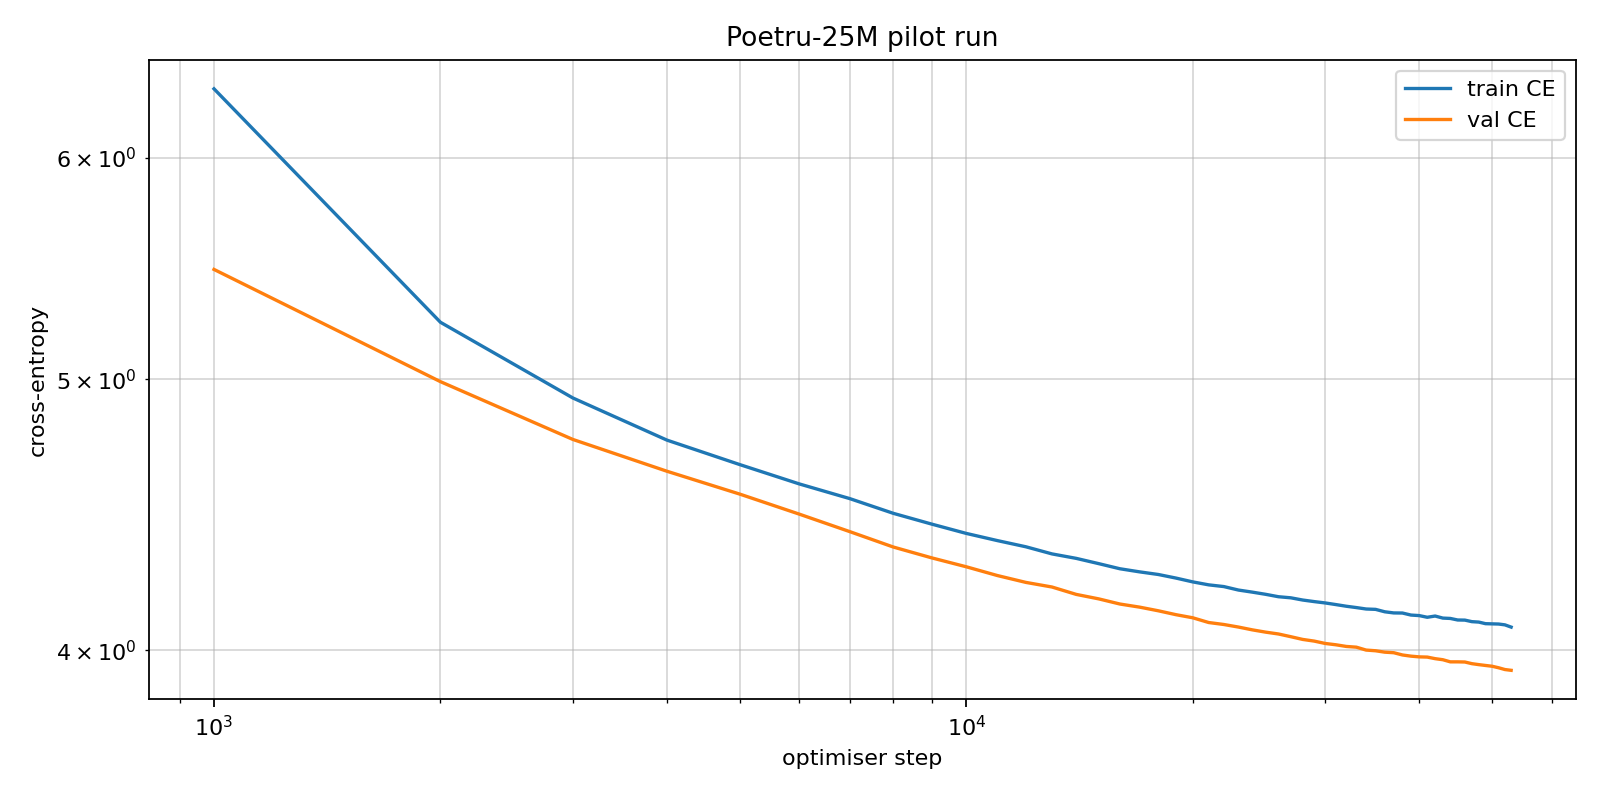
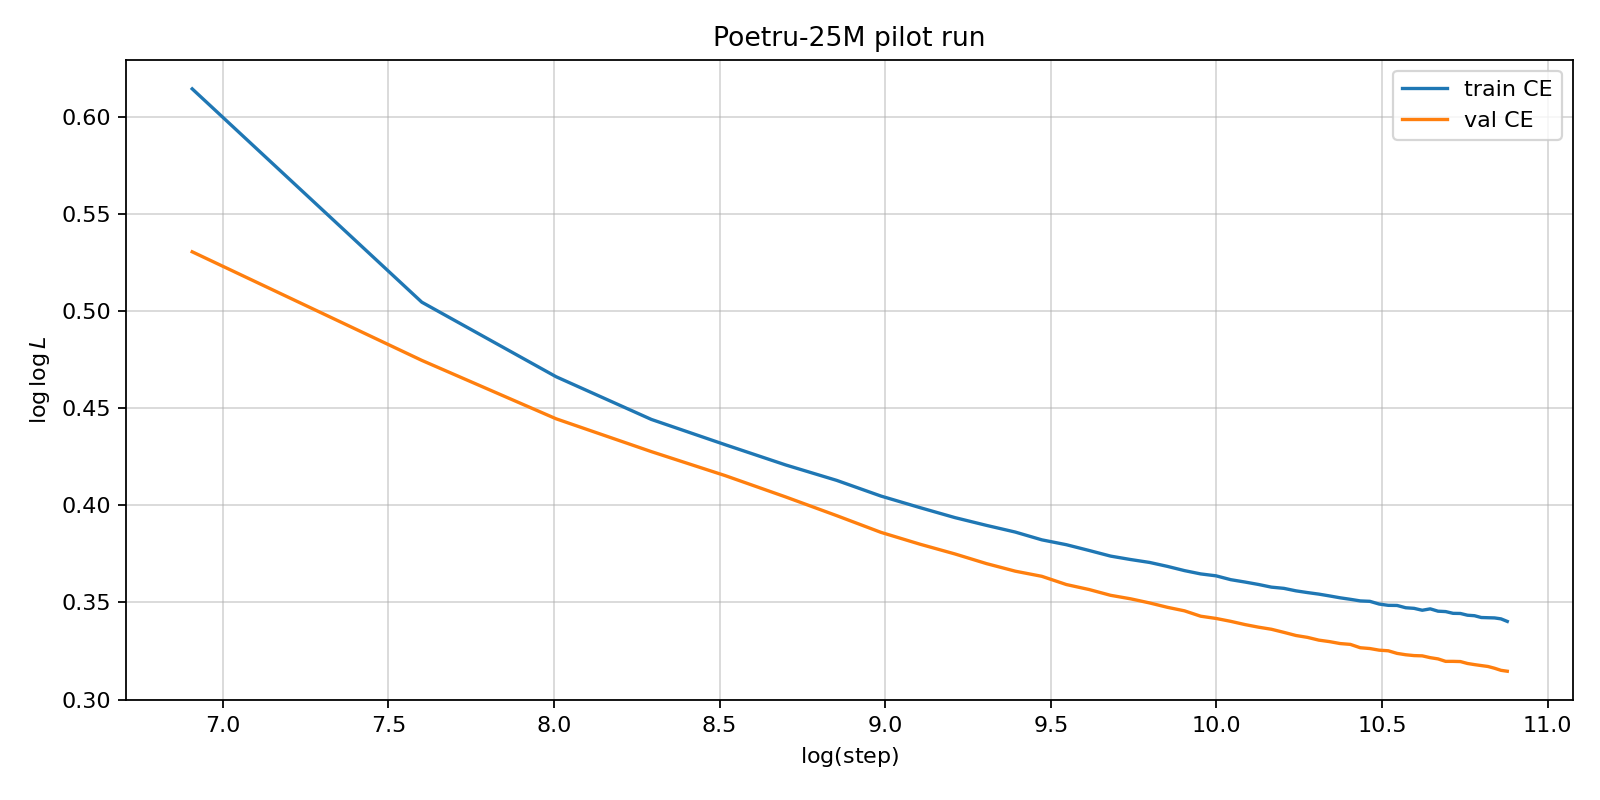
Plot log(step) vs log(log(loss)) for Chinchilla-style scaling view.

diff --git a/scripts/plot_poetru_25m_experiment.py b/scripts/plot_poetru_25m_experiment.py
@@ -29,13 +29,17 @@ def plot_experiment(csv_path: Path, out_dir: Path) -> None:
     fig.savefig(out_dir / "poetru_25m_loss_linear.png", dpi=160)
     plt.close(fig)
 
+    log_step = np.log(step)
+    loglog_train = np.log(np.log(train))
+    loglog_val = np.log(np.log(val))
+
     fig, ax = plt.subplots(figsize=(10, 5))
-    ax.loglog(step, train, label="train CE")
-    ax.loglog(step, val, label="val CE")
-    ax.set_xlabel("optimiser step")
-    ax.set_ylabel("cross-entropy")
+    ax.plot(log_step, loglog_train, label="train CE")
+    ax.plot(log_step, loglog_val, label="val CE")
+    ax.set_xlabel(r"$\log(\mathrm{step})$")
+    ax.set_ylabel(r"$\log\log L$")
     ax.set_title("Poetru-25M pilot run")
-    ax.grid(alpha=0.5, which="both")
+    ax.grid(alpha=0.5)
     ax.legend()
     fig.tight_layout()
     fig.savefig(out_dir / "poetru_25m_loss_loglog.png", dpi=160)

diff --git a/README.md b/README.md
@@ -44,9 +44,11 @@ Random guessing at vocabulary size 24k sits near $\ln(24000) \approx 10.1$ nats,
 
 ![Poetru-25M train and validation CE, linear axes](docs/experiments/poetru_25m_loss_linear.png)
 
-**Log-log scale**
+**Chinchilla-style coordinates**
 
-![Poetru-25M train and validation CE, log-log axes](docs/experiments/poetru_25m_loss_loglog.png)
+[Hoffmann et al.](https://arxiv.org/abs/2203.15556) relate language-model loss to compute and parameter count through power laws. The scaling figure uses $\log(\mathrm{step})$ on the horizontal axis and $\log\log L$ on the vertical axis, where $L$ is cross-entropy and both logarithms are natural. Every logged value satisfies $L > 1$, so $\log\log L$ is real on this segment. A straight segment in this plane is the project convention for comparing decay to Chinchilla-type scaling on the pilot run.
+
+![Poetru-25M train and validation CE, log step vs log log loss](docs/experiments/poetru_25m_loss_loglog.png)
 
 Regenerate the PNG files after editing the CSV:
 
